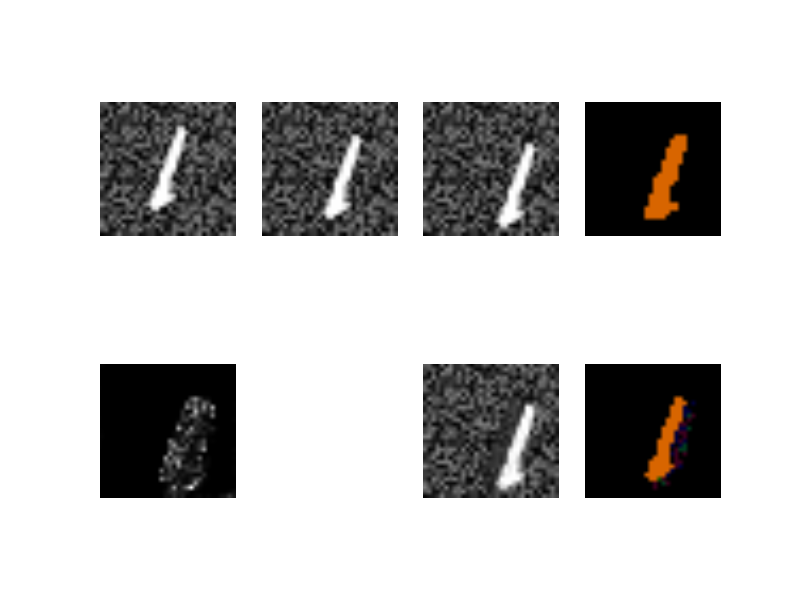
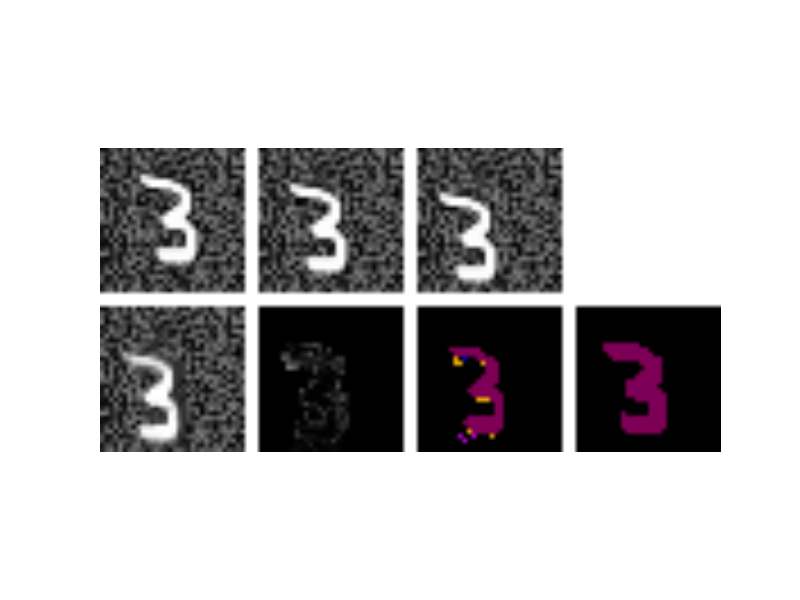
better visualization for exp007

diff --git a/exp007/main.py b/exp007/main.py
@@ -57,34 +57,57 @@ def train_supervised(args, model, images, m_dict, reverse_m_dict, m_kernel):
     return model
 
 
+def get_img_size(n_row, n_col, img_size):
+    height = n_row * img_size + (n_row - 1) * int(img_size/10)
+    width = n_col * img_size + (n_col - 1) * int(img_size/10)
+    return width, height
+
+
+def get_img_coordinate(row, col, img_size):
+    y1 = (row - 1) * img_size + (row - 1) * int(img_size/10)
+    y2 = y1 + img_size
+    x1 = (col - 1) * img_size + (col - 1) * int(img_size/10)
+    x2 = x1 + img_size
+    return x1, y1, x2, y2
+
+
 def visualize(im1, im2, im3, pred, pred_motion, gt_motion, m_range, reverse_m_dict):
+    img_size = im1.size(2)
+    width, height = get_img_size(2, 4, img_size)
+    img = numpy.ones((height, width, 3))
+
+    im1 = im1[0].cpu().data.numpy().transpose(1, 2, 0).repeat(3, 2)
+    x1, y1, x2, y2 = get_img_coordinate(1, 1, img_size)
+    img[y1:y2, x1:x2, :] = im1
+
+    im2 = im2[0].cpu().data.numpy().transpose(1, 2, 0).repeat(3, 2)
+    x1, y1, x2, y2 = get_img_coordinate(1, 2, img_size)
+    img[y1:y2, x1:x2, :] = im2
+
+    im3 = im3[0].cpu().data.numpy().transpose(1, 2, 0).repeat(3, 2)
+    x1, y1, x2, y2 = get_img_coordinate(1, 3, img_size)
+    img[y1:y2, x1:x2, :] = im3
+
+    pred = pred[0].cpu().data.numpy().transpose(1, 2, 0).repeat(3, 2)
+    pred[pred > 1] = 1
+    pred[pred < 0] = 0
+    x1, y1, x2, y2 = get_img_coordinate(2, 1, img_size)
+    img[y1:y2, x1:x2, :] = pred
+
+    im_diff = numpy.abs(pred - im3)
+    x1, y1, x2, y2 = get_img_coordinate(2, 2, img_size)
+    img[y1:y2, x1:x2, :] = im_diff
+
+    pred_motion = label2flow(pred_motion[0].cpu().data.numpy().squeeze(), m_range, reverse_m_dict)
+    x1, y1, x2, y2 = get_img_coordinate(2, 3, img_size)
+    img[y1:y2, x1:x2, :] = pred_motion
+
+    gt_motion = label2flow(gt_motion[0].cpu().data.numpy().squeeze(), m_range, reverse_m_dict)
+    x1, y1, x2, y2 = get_img_coordinate(2, 4, img_size)
+    img[y1:y2, x1:x2, :] = gt_motion
+
     plt.figure(1)
-    plt.subplot(2,4,1)
-    plt.imshow(im1[0].cpu().data.numpy().squeeze(), cmap='gray')
-    plt.axis('off')
-    plt.subplot(2,4,2)
-    plt.imshow(im2[0].cpu().data.numpy().squeeze(), cmap='gray')
-    plt.axis('off')
-    plt.subplot(2,4,3)
-    plt.imshow(im3[0].cpu().data.numpy().squeeze(), cmap='gray')
-    plt.axis('off')
-    plt.subplot(2,4,4)
-    gt_m = label2flow(gt_motion[0].cpu().data.numpy().squeeze(), m_range, reverse_m_dict)
-    plt.imshow(gt_m)
-    plt.axis('off')
-    plt.subplot(2,4,8)
-    pred_m = label2flow(pred_motion[0].cpu().data.numpy().squeeze(), m_range, reverse_m_dict)
-    plt.imshow(pred_m)
-    plt.axis('off')
-    plt.subplot(2,4,7)
-    pred_im = pred[0].cpu().data.numpy().squeeze()
-    pred_im[pred_im > 1] = 1
-    pred_im[pred_im < 0] = 0
-    plt.imshow(pred_im, cmap='gray')
-    plt.axis('off')
-    plt.subplot(2,4,5)
-    im_diff = torch.abs(pred - im3)
-    plt.imshow(im_diff[0].cpu().data.numpy().squeeze(), cmap='gray')
+    plt.imshow(img)
     plt.axis('off')
     plt.show()
 
